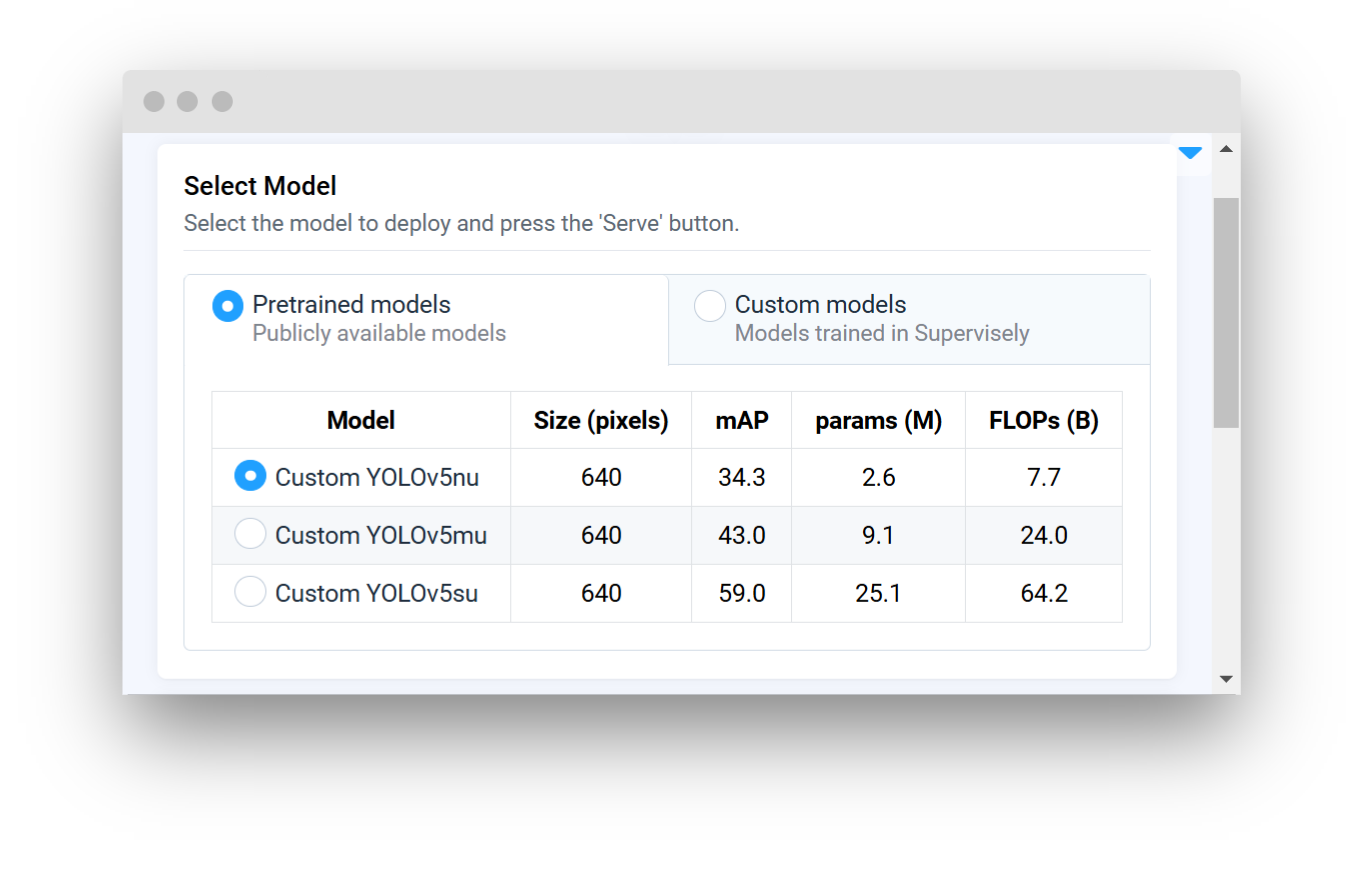
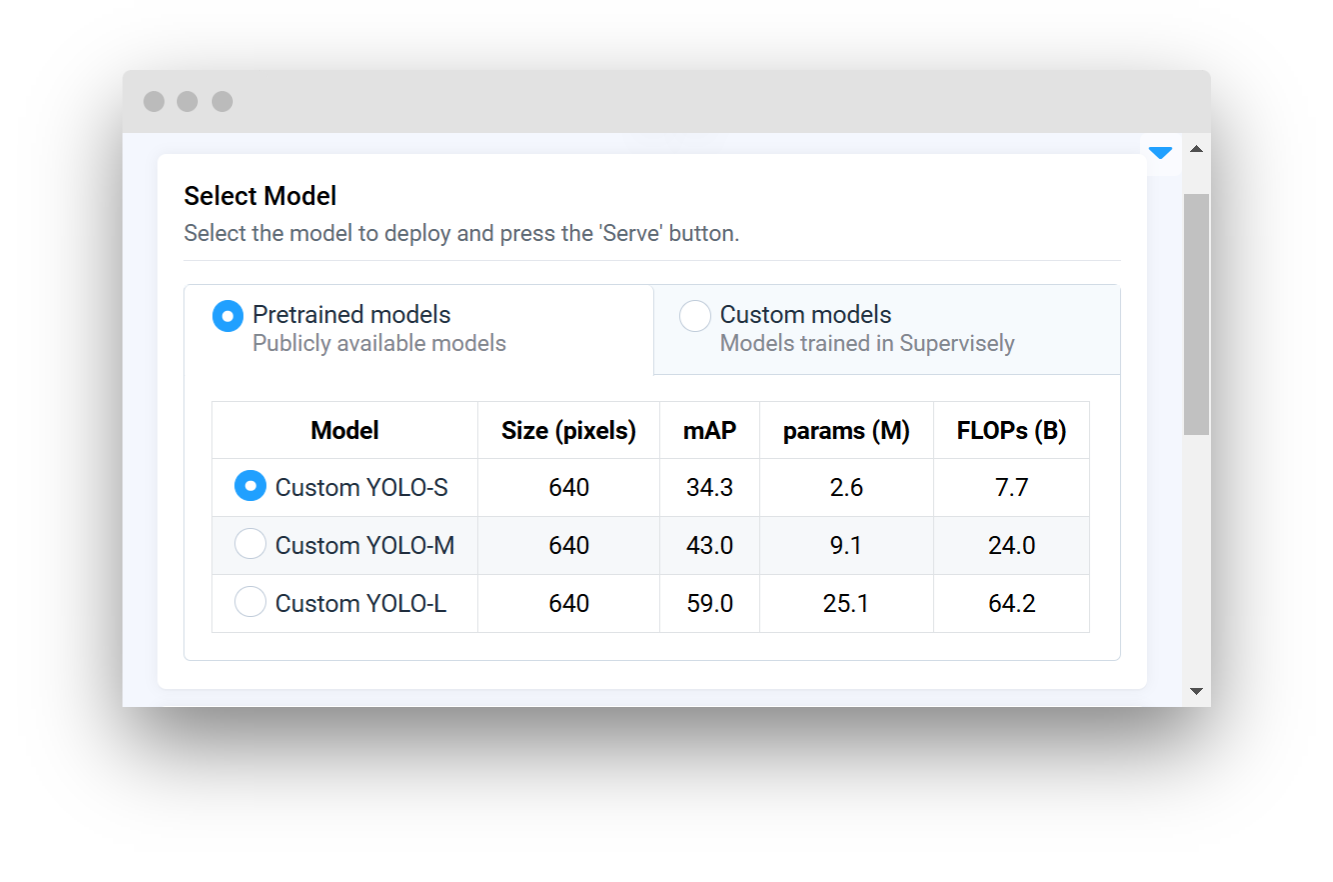
Update model images for inference documentation by replacing models-json.png and removing custom_serving_app_gui.png

diff --git a/neural-networks/inference-and-deployment/integrate-custom-inference.md b/neural-networks/inference-and-deployment/integrate-custom-inference.md
@@ -1,28 +1,27 @@
 # Integrate Custom Inference
 
-In this guide, you'll learn how to build a custom [serving app](./supervisely-serving-apps.md) using the Supervisely SDK. By integrating your own model, you'll be able to deploy a fully functional inference app on the Supervisely platform (or externally) that serves predictions in real time. In other words, you'll transform your model into a serving app that's ready to be used in production.
-
 ## Overview
 
-By following this guide, you'll convert your custom model into a fully deployable serving app. This integration lets you:
+In this guide, you'll learn how to build a custom [serving app](./supervisely-serving-apps.md) using the Supervisely SDK. By integrating your own model, you'll be able to deploy it on the Supervisely platform (or externally). In other words, you'll transform your model into a serving app that's ready to be used in production.
 
-- **Easily Serve Your Model:** Run inference on your own data through Supervisely's platform.
+**Key Features:**
+
+- **Easily Serve Your Model:** Run inference on your own data through Supervisely platform or locally.
 - **Customize Your Solution:** Extend a Supervisely SDK class and implement the core methods needed for your custom inference solution.
 - **Debug and Release**: Test locally, debug quickly, and deploy your app for production use.
 
 ## Step-by-Step Implementation
 
-Let's dive into the steps:
+To integrate your custom model into the Supervisely platform, follow these steps:
 
-1. **Create Your Implementation File:** Create your custom model class inheriting from `sly.nn.inference.Inference` or a similar base class (sly.nn.inference.ObjectDetection).
-2. **Prepare model configurations and inference settings files:** Create a `.json` file that lists your model configurations and details and `.yaml` file for any extra inference settings.
-3. **Define Inference Settings:** Create an inference_settings.yaml file for any extra parameters you need during inference.
-4. **Implement Key Methods:**
-   - `load_model`: Load and set up your model for inference.
-   - `predict`: Preprocess input data, run inference, and format the predictions to [Supervisely format]()
-5. **Run, Debug, and Release:** Test your app locally (with IDE tips provided), then deploy it on the Supervisely platform.
+**[Step 1.](#step-1-prepare-model-configurations) Prepare model configurations:** Create a `.json` file to list your model configurations.
+**[Step 2.](#step-2-prepare-inference-settings) Prepare inference settings:** Create a `.yaml` file to specify parameters for inference.
+**[Step 3.](#step-3-optional-prepare-app-options) Prepare app options:** Create a `.yaml` file to specify additional options for your app.
+**[Step 4.](#step-4-create-a-custom-class) Create a custom class:** Create a python file that contains your custom inference class.
+**[Step 5.](#step-5-implement-required-methods) Implement required methods:** Implement the `load_model` and `predict` methods.
+**[Step 6.](#step-6-optional-create-main-script) Create main script:** Create an entrypoint python script to run and serve your model.
 
-Below is a simple example for a YOLO‑based object detection model. This example demonstrates the core functionality without distracting external dependencies.
+### Implementation Example
 
 ```python
 import torch
@@ -31,9 +30,9 @@ import supervisely as sly
 class CustomYOLOInference(sly.nn.inference.ObjectDetection):
     # 1⃣ Define essential class variables
     FRAMEWORK_NAME = "Custom YOLO"
-    MODELS = "path/to/models.json"  # File containing your model configurations
-    INFERENCE_SETTINGS = "path/to/inference_settings.yaml"  # Additional inference settings
-    APP_OPTIONS = "path/to/app_options.yaml" # [optional] Additional app options
+    MODELS = "src/models.json"  # File containing your model configurations
+    INFERENCE_SETTINGS = "src/inference_settings.yaml"  # Additional inference settings
+    APP_OPTIONS = "src/app_options.yaml" # [optional] Additional app options
 
 
     # 2⃣ Implement the load_model method
@@ -62,66 +61,28 @@ class CustomYOLOInference(sly.nn.inference.ObjectDetection):
         outputs = self.model(img_tensor)
         predictions = self._postprocess_outputs(outputs, settings)
         return predictions
-
-# 4⃣ Initialize and serve the model using custom inference class
-model = CustomYOLOInference(use_gui=True, use_serving_gui_template=True)
-model.serve()
 ```
 
-![Custom Inference GUI](./custom_serving_app_gui.png)
+![Custom Inference GUI](./serve-app.png)
 
-### Step 1. Create a custom class
+### Step 1. Prepare model configurations
 
-Write a Python file (e.g., src/main.py) that contains your custom inference class.
-
-Example snippet:
-
-```python
-import supervisely as sly
-
-class CustomYOLOInference(sly.nn.inference.ObjectDetection):
-    # Define essential class variables
-    FRAMEWORK_NAME = "Custom YOLO"
-    MODELS = "path/to/models.json"  # File containing your model configurations
-    INFERENCE_SETTINGS = "path/to/inference_settings.yaml"  # Additional inference settings
-    # ...
-```
-
-### Step 2. Prepare models and inference settings files
-
-#### Create models.json
-
-**Informative Fields:** Each model dictionary includes fields that provide key details about the model. These are displayed in the GUI for quick reference:
-
-- `Model`: The name of the model (e.g. Custom YOLOv5nu).
-- `Size (pixels)`: The input image size in pixels (e.g. 640).
-- `mAP`: The mean average precision of the model (e.g. 0.75).
-- `params (M)`: The number of model parameters in millions (e.g. 50).
-- `FLOPs (B)`: The number of floating-point operations in billions (e.g. 50).
-
-**Technical Field (meta):**
-Each model must also include a `meta` field. This field contains technical information required by the TrainApp to correctly access and manage the model during the training process. While the informative fields are for display purposes, the `meta` field ensures the app functions properly behind the scenes.
-
-- (**required**) `task_type`: The type of task (e.g., object detection)
-- (**required**) `model_name`: Model name
-- (**required**) `model_files`: Paths to the checkpoint and configuration files
-  - (**required**) `checkpoint`: Path or URL to the model checkpoint. URL will be downloaded automatically.
-  - (**optional**) `config`: Path to the model configuration file
+Create `models.json` file to list your model configurations. This file should include a list of dictionaries, each containing details about a specific model. If not specified, only custom models tab will be available in the GUI.
 
 **Example `models.json`**
 
 ```json
 [
     {
-        "Model": "Custom YOLOv5nu",
+        "Model": "Custom YOLO-S",
         "Size (pixels)": "640",
         "mAP": "34.3",
         "params (M)": "2.6",
         "FLOPs (B)": "7.7",
         "meta": {
             "task_type": "object detection",
-            "model_name": "custom yolov5nu",
-            "model_files": {"checkpoint": "https://my_custom_model.com/download/yolov5nu.pt"}
+            "model_name": "custom yolo-s",
+            "model_files": {"checkpoint": "https://.../yolo-s.pt"}
         }
     },
     // ... additional models
@@ -132,40 +93,132 @@ _Example GUI preview:_
 
 ![Model in GUI](./models-json.png)
 
-**Note:**
+**Table Fields:**
 
-- The `meta` field holds technical details used by the inference class to load the model:
-  - (**required**) `task_type`: The type of task (e.g., object detection)
-  - (**required**) `model_name`: Model name
-  - (**required**) `model_files`: Paths to the checkpoint and configuration files
-    - (**required**) `checkpoint`: Path or URL to the model checkpoint. URL will be downloaded automatically.
-    - (**optional**) `config`: Path to the model configuration file
+Fields that are displayed in the GUI for quick reference about the model performance. These fields can be anything you want to display in the GUI about your model and are not limited to the example shown above.
 
-#### Create inference_settings.yaml
+**Technical Field (meta):**
 
-Create an `inference_settings.yaml` file to specify any extra settings needed during inference and assign path to this file in the `INFERENCE_SETTINGS` variable in your custom class.
+Each model must also include a `meta` field. This field is not displayed in the GUI. It contains technical information required by the inference class and ensures the app functions properly behind the scenes.
+
+- (**required**) `task_type`: The type of task (e.g., object detection)
+- (**required**) `model_name`: Model configuration name
+- (**required**) `model_files`: Paths to the checkpoint and configuration files. You can extend this field with additional paths if needed
+  - (**required**) `checkpoint`: Path or URL to the model checkpoint. URL will be downloaded automatically
+  - (**optional**) `config`: Path to the model configuration file
+  - (**optional**) Any additional files can be added to the `model_files` dictionary
+
+### Step 2. Prepare inference settings
+
+Create an `inference_settings.yaml` file to specify parameters for inference.
+
+**Example `inference_settings.yaml`:**
 
 ```yaml
-confidence_threshold: 0.4
+# bounding box confidence threshold
+conf: 0.25
+# intersection over union (IoU) threshold for NMS
+iou: 0.7
+# use half precision (FP16)
+half: False
+# maximum number of detections per image
+max_det: 300
+# whether to use class-agnostic NMS or not
+agnostic_nms: False
 ```
 
-### Step 3. Implement Required Methods
+### Step 3. [Optional] Prepare app options
 
-#### Inheritance and Class Variables
+You can create an `app_options.yaml` file to specify additional options for your app. This file is optional and can be used to customize the app GUI.
 
-Your custom class should inherit from the appropriate Supervisely base class. Define key class variables:
+```yaml
+pretrained_models: true
+custom_models: true
+supported_runtimes: ["pytorch"]
+```
 
-**`FRAMEWORK_NAME:`** Name of your model's framework.
-**`MODELS:`** Path to your `models.json` file.
-**`INFERENCE_SETTINGS:`** Path to your `.yaml` settings file.
-**`APP_OPTIONS:`** (Optional) Path to additional app options in `.yaml` format.
+**Available options:**
+
+- **`pretrained_models`**
+  - `description`: If enabled, shows the pretrained models tab in the GUI. Pretrained models are models that are provided by Supervisely.
+  - `type`: boolean
+  - `default`: `True`
+- **`custom_models`**
+  - `description`: If enabled, shows the custom models tab in the GUI. Custom models are models trained in Supervisely with corresponding training app.
+  - `type`: boolean
+  - `default`: `True`
+- **`supported_runtimes`**
+  - `description`: List of supported runtimes for the app. If not specified, "pytorch" is used by default. Available options: `pytorch`,  `onnx`, `tensorrt`.
+  - `type`: list of strings
+  - `default`: `["pytorch"]`
+
+### Step 4. Create a custom class
+
+Create a python file (e.g., `src/custom_yolo.py`) that contains your custom inference class with implementation.
+
+**Example custom_yolo.py:**
+
+```python
+import supervisely as sly
+
+class CustomYOLOInference(sly.nn.inference.ObjectDetection):
+    # Define essential class variables
+    FRAMEWORK_NAME = "Custom YOLO"
+    MODELS = "src/models.json"  # File containing your model configurations
+    INFERENCE_SETTINGS = "src/inference_settings.yaml"  # Additional inference settings
+    # ...
+```
+
+#### Inheritance
+
+Your custom class should inherit from the appropriate Supervisely base class. For example, if you're working on an object detection model, you should inherit from `sly.nn.inference.ObjectDetection`.
+
+**Available classes for inheritance:**
+
+- `ObjectDetection`
+- `ObjectDetection3D`
+- `PoseEstimation`
+- `PromptBasedObjectDetection`
+- `PromptableSegmentation`
+- `SalientObjectSegmentation`
+- `SemanticSegmentation`
+
+If none of these classes fit your model, you can inherit from the base `Inference` class and customize it as needed.
+
+#### Class Variables
+
+In your custom class, define class variables to specify the model framework, paths to model configurations, and inference settings.
+
+**Class variables:**
+
+- **`FRAMEWORK_NAME:`** Name of your model's framework or architecture.
+- **`MODELS:`** Path to your `models.json` file.
+- **`INFERENCE_SETTINGS:`** Path to your `.yaml` settings file.
+- **`APP_OPTIONS:`** (Optional) Path to additional app options in `.yaml` format.
+
+### Step 5. Implement required methods
 
 #### The `load_model` Method
 
 This method loads the model checkpoint and prepares it for inference.
 
+Let's break down the `load_model` parameters:
+
+- **`model_files`:** A dictionary containing paths to the model checkpoint and configuration files. All paths are local paths.
+- **`model_info`:** A dictionary containing model information from the `models.json` file if model is pretrained, otherwise it's [experiment info]() from custom model that was trained in Supervisely.
+- **`model_source`:** The source of the model (`Pretrained models` or `Custom model`).
+- **`device`:** The device to run the model on (e.g., "cpu", "cuda").
+- **`runtime`:** The runtime to use for inference (e.g., "pytorch", "onnx").
+
 ```python
-def load_model(self, model_files: dict, model_info: dict, model_source: str, device: str, runtime: str):
+def load_model(
+    self,
+    model_files: dict,
+    model_info: dict,
+    model_source: str,
+    device: str,
+    runtime: str
+):
     """
     Load and prepare the model for inference.
     """
@@ -193,10 +246,38 @@ def predict(self, image_path: str, settings: dict):
     # 2⃣ Run the model inference
     outputs = self.model(img_tensor)
     
-    # 3⃣ Postprocess the outputs 
+    # 3⃣ Postprocess the outputs to Supervisely format
     # (implement your own method, convert raw outputs to labels, boxes, scores, etc.)
     predictions = self._postprocess_outputs(outputs, settings)
     return predictions
+
+#########################################################################################
+# ⬇ These methods are optional, you can implement everything in the predict method ⬇ #
+#########################################################################################
+
+def _preprocess_image(self, image_path: str):
+    # Your own logic to preprocess the input image
+    pass
+
+def _postprocess_outputs(self, outputs, settings: dict):
+    # Your own logic to convert raw outputs to predictions
+    pass
+```
+
+### Step 6. [Optional] Create main script
+
+This step is optional, but we recommend to keep your main script separate from the custom class for better organization.
+
+Create a main python script (e.g., `src/main.py`) to run and debug your app. This file should contain code to initialize custom class and serve it. This script will be the entry point for your app.
+
+**Example `main.py`**
+
+```python
+import supervisely as sly
+from custom_yolo import CustomYOLOInference
+
+model = CustomYOLOInference(use_gui=True, use_serving_gui_template=True)
+model.serve()
 ```
 
 ## Running and Debugging Your App
@@ -320,6 +401,7 @@ The structure of repository is the following:
     ├── 📜inference_settings.yaml
     ├── 📜app_options.yaml
     └── 🐍main.py
+    └── 🐍custom_yolo.py
 ```
 
 Explanation:
@@ -355,7 +437,7 @@ App configuration is stored in `config.json` file. A detailed explanation of all
   "session_tags": ["deployed_nn"],
   "need_gpu": true,
   "community_agent": false,
-  "docker_image": "supervisely/detectron2-demo:1.0.3",
+  "docker_image": "user/custom-yolo:1.0.0",
   "entrypoint": "python -m uvicorn src.main:m.app --host 0.0.0.0 --port 8000",
   "port": 8000,
   "headless": true
@@ -376,25 +458,3 @@ Here is an explanation for the fields:
 - `entrypoint` - the command that starts our application in a container
 - `port` - port inside the container
 - `"headless": true` means that the app has no User Interface
-
-## Additional resources
-
-### Create app_options.yaml
-
-You can create an `app_options.yaml` file to specify additional options for your app. This file is optional and can be used to customize the app GUI. Assign path to this file in the `APP_OPTIONS` variable in your custom class if you plan to use it.
-
-```yaml
-pretrained_models: true # If enabled shows pretrained models tab in the GUI
-custom_models: true # If enabled shows custom models tab in the GUI (Custom models are models that were trained in Supervisely)
-supported_runtimes: ["pytorch"] # Available options: "pytorch", "onnxruntime", "tensorrt". Each runtime requires a separate implementation
-```
-
-**Available classes for inheritance:**
-
-- `ObjectDetection`
-- `ObjectDetection3D`
-- `PoseEstimation`
-- `PromptBasedObjectDetection`
-- `PromptableSegmentation`
-- `SalientObjectSegmentation`
-- `SemanticSegmentation`
